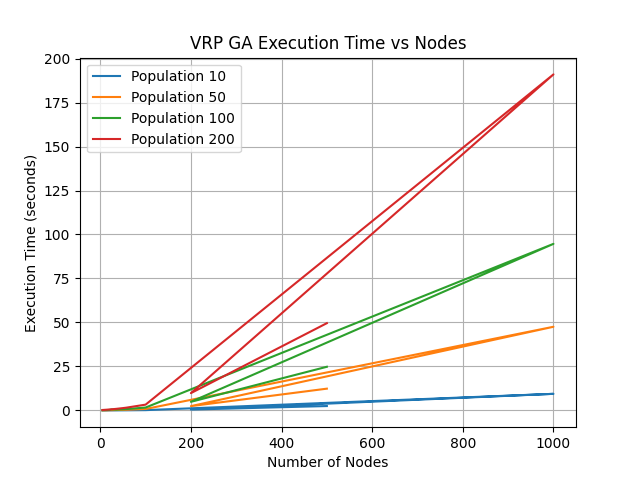
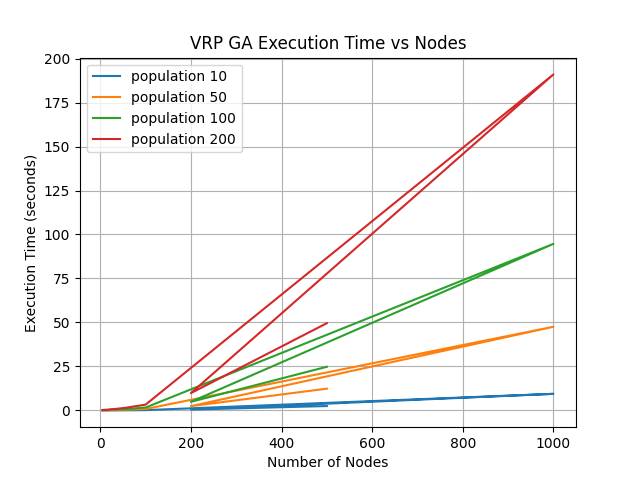
Made the script versatile

Changed region(s): [[0.1875, 0.125, 0.375, 0.3125]]

diff --git a/create_plots.py b/create_plots.py
@@ -9,9 +9,22 @@ parser = ap.ArgumentParser(
     description="Create plots for genetic algorithm implementation results for VRP",
 )
 
+
 def add_arguments():
     parser.add_argument(
-        "-i", "--results", type=str, nargs=4, required=True, help="Paths to the results JSON files"
+        "-i",
+        "--results",
+        type=str,
+        nargs=4,
+        required=True,
+        help="Paths to the results JSON files",
+    )
+    parser.add_argument(
+        "-p",
+        "--parameter",
+        type=str,
+        required=True,
+        choices=["p", "g", "m", "t"],
     )
     parser.add_argument(
         "-o", "--output", type=str, required=True, help="Path to the output PNG file"
@@ -26,23 +39,26 @@ def add_arguments():
 
     return parser.parse_args()
 
-def extract_population_from_filename(filename: str) -> int:
+
+def extract_parameter_value_from_filename(filename: str, parameter_symbol: str) -> int:
     """
-    Extract the population value from the filename.
+    Extract parameter value from the filename.
 
     Parameters:
     filename (str): The filename
+    parameter_symbol (str): The symbol of the parameter to extract
 
     Returns:
     population (int): The extracted population value
     """
-    match = re.search(r'p(\d+)', filename)
+    match = re.search(rf"{parameter_symbol}(\d+)", filename)
     if match:
         return int(match.group(1))
     else:
-        raise ValueError(f"Population value not found in filename: {filename}")
+        raise ValueError(f"Parameter value not found in filename: {filename}")
 
-def load_results(filenames: list) -> pd.DataFrame:
+
+def load_results(filenames: list, param_symbol: str, param_name: str) -> pd.DataFrame:
     """
     Load results from multiple JSON files into a dataframe.
 
@@ -54,22 +70,27 @@ def load_results(filenames: list) -> pd.DataFrame:
     """
     data = []
     for filename in filenames:
-        population = extract_population_from_filename(filename)
+        param_value = extract_parameter_value_from_filename(filename, param_symbol)
         with open(filename, "r") as file:
             results = json.load(file)
             for result in results:
                 nodes_count = result["nodes_count"]
                 for vehicle_result in result["vehicles_amounts"]:
-                    data.append({
-                        "nodes_count": nodes_count,
-                        "execution_time": vehicle_result["execution_time"],
-                        "vehicles_amount": vehicle_result["vehicles_amount"],
-                        "population": population
-                    })
+                    data.append(
+                        {
+                            "nodes_count": nodes_count,
+                            "execution_time": vehicle_result["execution_time"],
+                            "vehicles_amount": vehicle_result["vehicles_amount"],
+                            param_name: param_value,
+                        }
+                    )
     df = pd.DataFrame(data)
     return df
 
-def plot_execution_time_vs_nodes(df: pd.DataFrame, output_filename: str, plot_title: str):
+
+def plot_execution_time_vs_nodes(
+    df: pd.DataFrame, param_name: str, output_filename: str, plot_title: str
+):
     """
     Plot the dependency of execution time on the number of nodes for each population value.
 
@@ -78,10 +99,14 @@ def plot_execution_time_vs_nodes(df: pd.DataFrame, output_filename: str, plot_ti
     """
     df = df[df["vehicles_amount"] == 4]
 
-    unique_populations = df["population"].unique()
-    for population in unique_populations:
-        subset = df[df["population"] == population]
-        plt.plot(subset["nodes_count"], subset["execution_time"], label=f"Population {population}")
+    unique_param_values = df[param_name].unique()
+    for param_val in unique_param_values:
+        subset = df[df[param_name] == param_val]
+        plt.plot(
+            subset["nodes_count"],
+            subset["execution_time"],
+            label=f"{param_name} {param_val}",
+        )
 
     plt.xlabel("Number of Nodes")
     plt.ylabel("Execution Time (seconds)")
@@ -91,11 +116,25 @@ def plot_execution_time_vs_nodes(df: pd.DataFrame, output_filename: str, plot_ti
     plt.savefig(output_filename)
     plt.show()
 
+
 if __name__ == "__main__":
     args = add_arguments()
     results_filenames = args.results
+    param_symbol = args.parameter
     output_graph = args.output
     plot_title = args.title
 
-    results_df = load_results(results_filenames)
-    plot_execution_time_vs_nodes(results_df, output_graph, plot_title)
+    match param_symbol:
+        case "p":
+            param_name = "population"
+        case "m":
+            param_name = "mutation_rate"
+        case "g":
+            param_name = "generations"
+        case "t":
+            param_name = "tournament_size"
+        case _:
+            raise ValueError(f"Invalid parameter symbol: {param_symbol}")
+
+    results_df = load_results(results_filenames, param_symbol, param_name)
+    plot_execution_time_vs_nodes(results_df, param_name, output_graph, plot_title)
